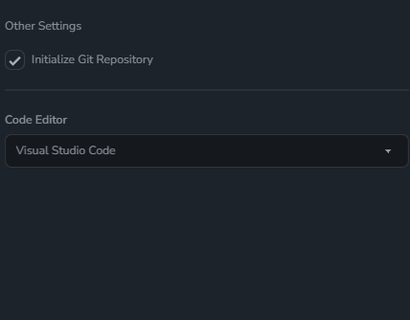
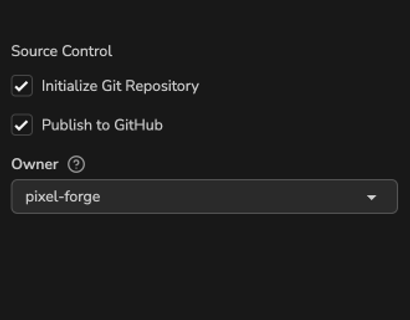
Release/1.12 (#41)
* docs: refresh next release media

* docs(media): refresh Git project setup assets

* docs(media): refresh launcher media

* docs: refresh project creation media

* docs: refresh next release media

* chore(media): refresh launcher feature media

* feat(homepage): showcase GitHub repository imports

* docs(homepage): highlight GitHub publishing

* docs: refresh GitHub integration media

* chore(media): refresh project setup feature assets

* docs: refresh project feature images and animation

* docs: refresh create project animation

* docs: use Godot Launcher name in contributor guide

* chore(deps): update packages and apply npm audit fixes

* docs(blog): prepare Godot Launcher 1.12 announcement

* chore: pin 1.11 announcement documentation links

* chore: show GitHub publishing in homepage animation

diff --git a/src/components/HomepageFeatures/index.tsx b/src/components/HomepageFeatures/index.tsx
@@ -41,6 +41,20 @@ const FeatureList: FeatureItem[] = [
     ),
   },
   {
+    title: 'Create and Import with GitHub',
+    sources: {
+      light: '/img/features/GitHub_Repository_Integration_Light.webp',
+      dark: '/img/features/GitHub_Repository_Integration_Dark.webp',
+    },
+    alt: 'Import from GitHub dialog with a selected repository',
+    size: { width: 410, height: 320 },
+    description: (
+      <>
+        Publish a new project to a private GitHub repository, or browse and import repositories you can access.
+      </>
+    ),
+  },
+  {
     title: 'Use Custom Godot Builds',
     sources: {
       light: '/img/features/Effortless_Godot_Version_Management_Custom_Light.png',

diff --git a/CONTRIBUTING.md b/CONTRIBUTING.md
@@ -6,7 +6,7 @@ This repository powers the [official Godot Launcher website](https://godotlaunch
 
 If you're looking to contribute to the Godot Launcher app or its documentation, check out these repos:
 
-- **Launcher app:** [github.com/godotlauncher/launcher](https://github.com/godotlauncher/launcher)
+- **Godot Launcher app:** [github.com/godotlauncher/launcher](https://github.com/godotlauncher/launcher)
 - **Documentation site:** [github.com/godotlauncher/launcher-docs](https://github.com/godotlauncher/launcher-docs)
 
 ---
